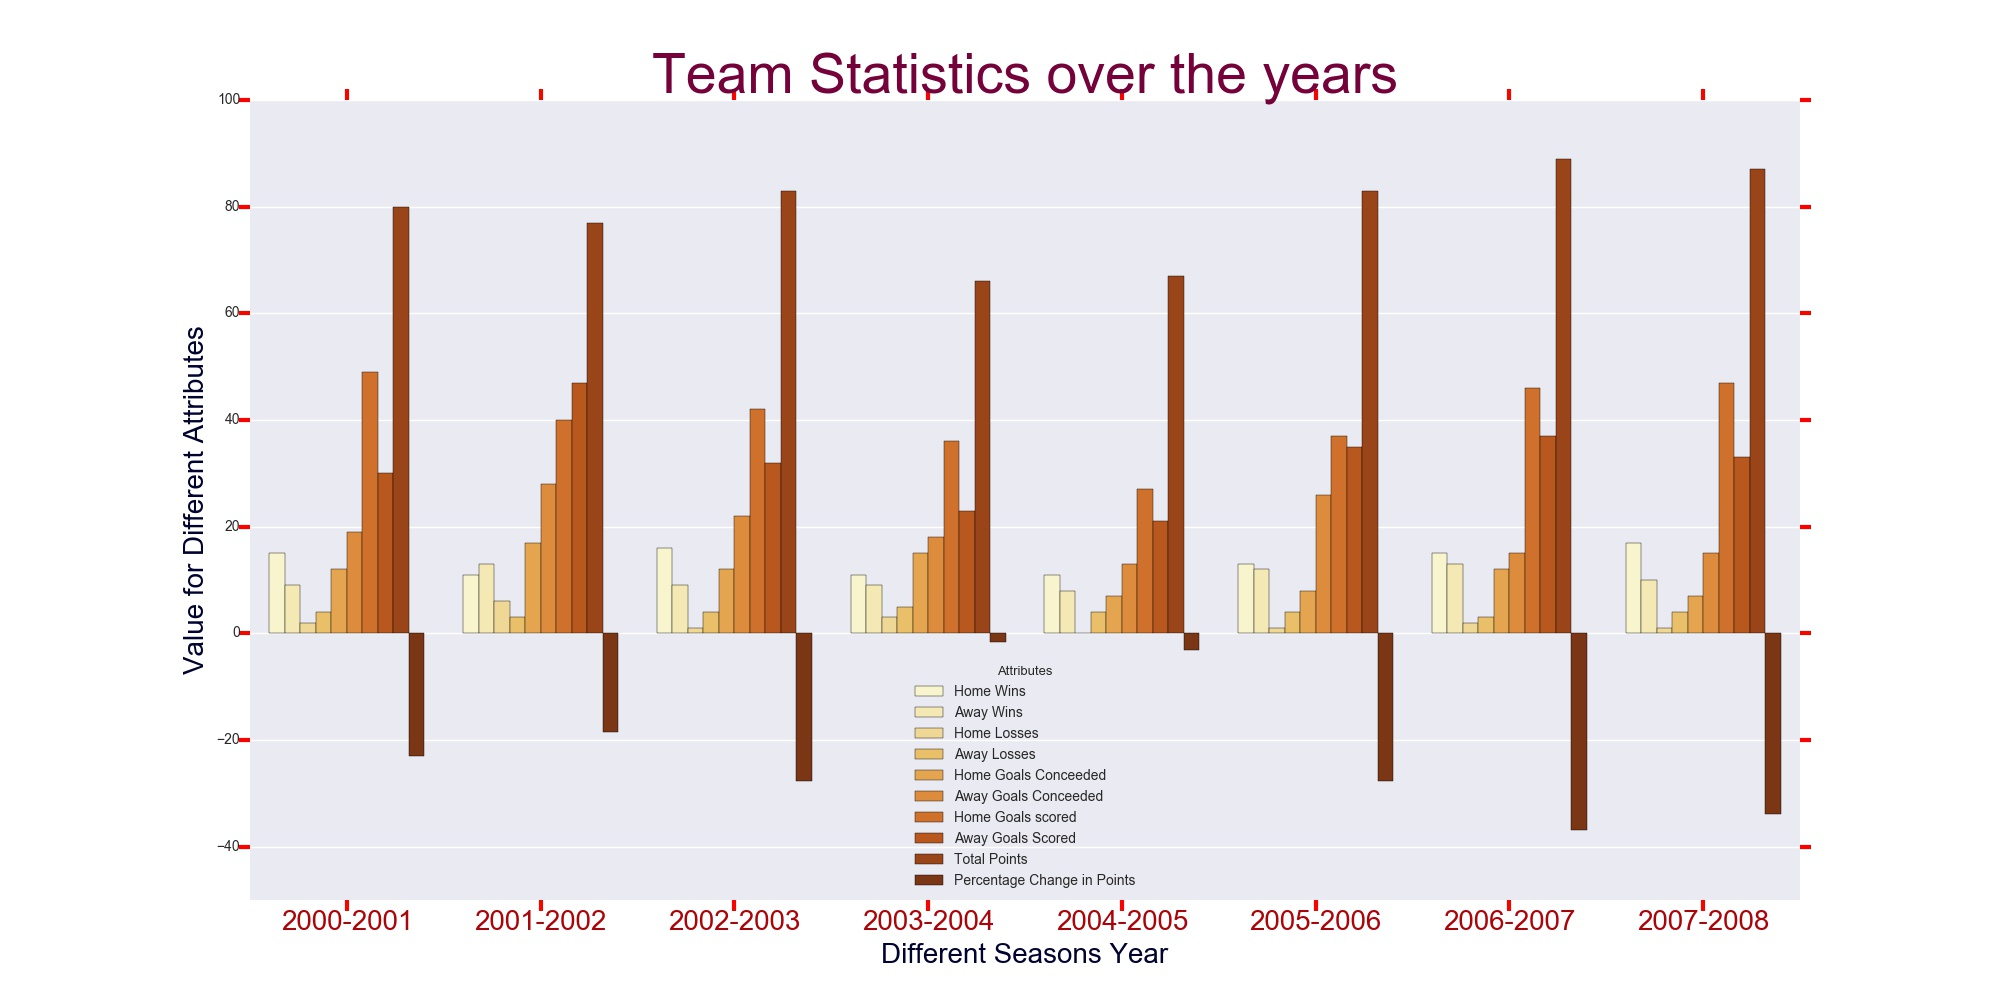
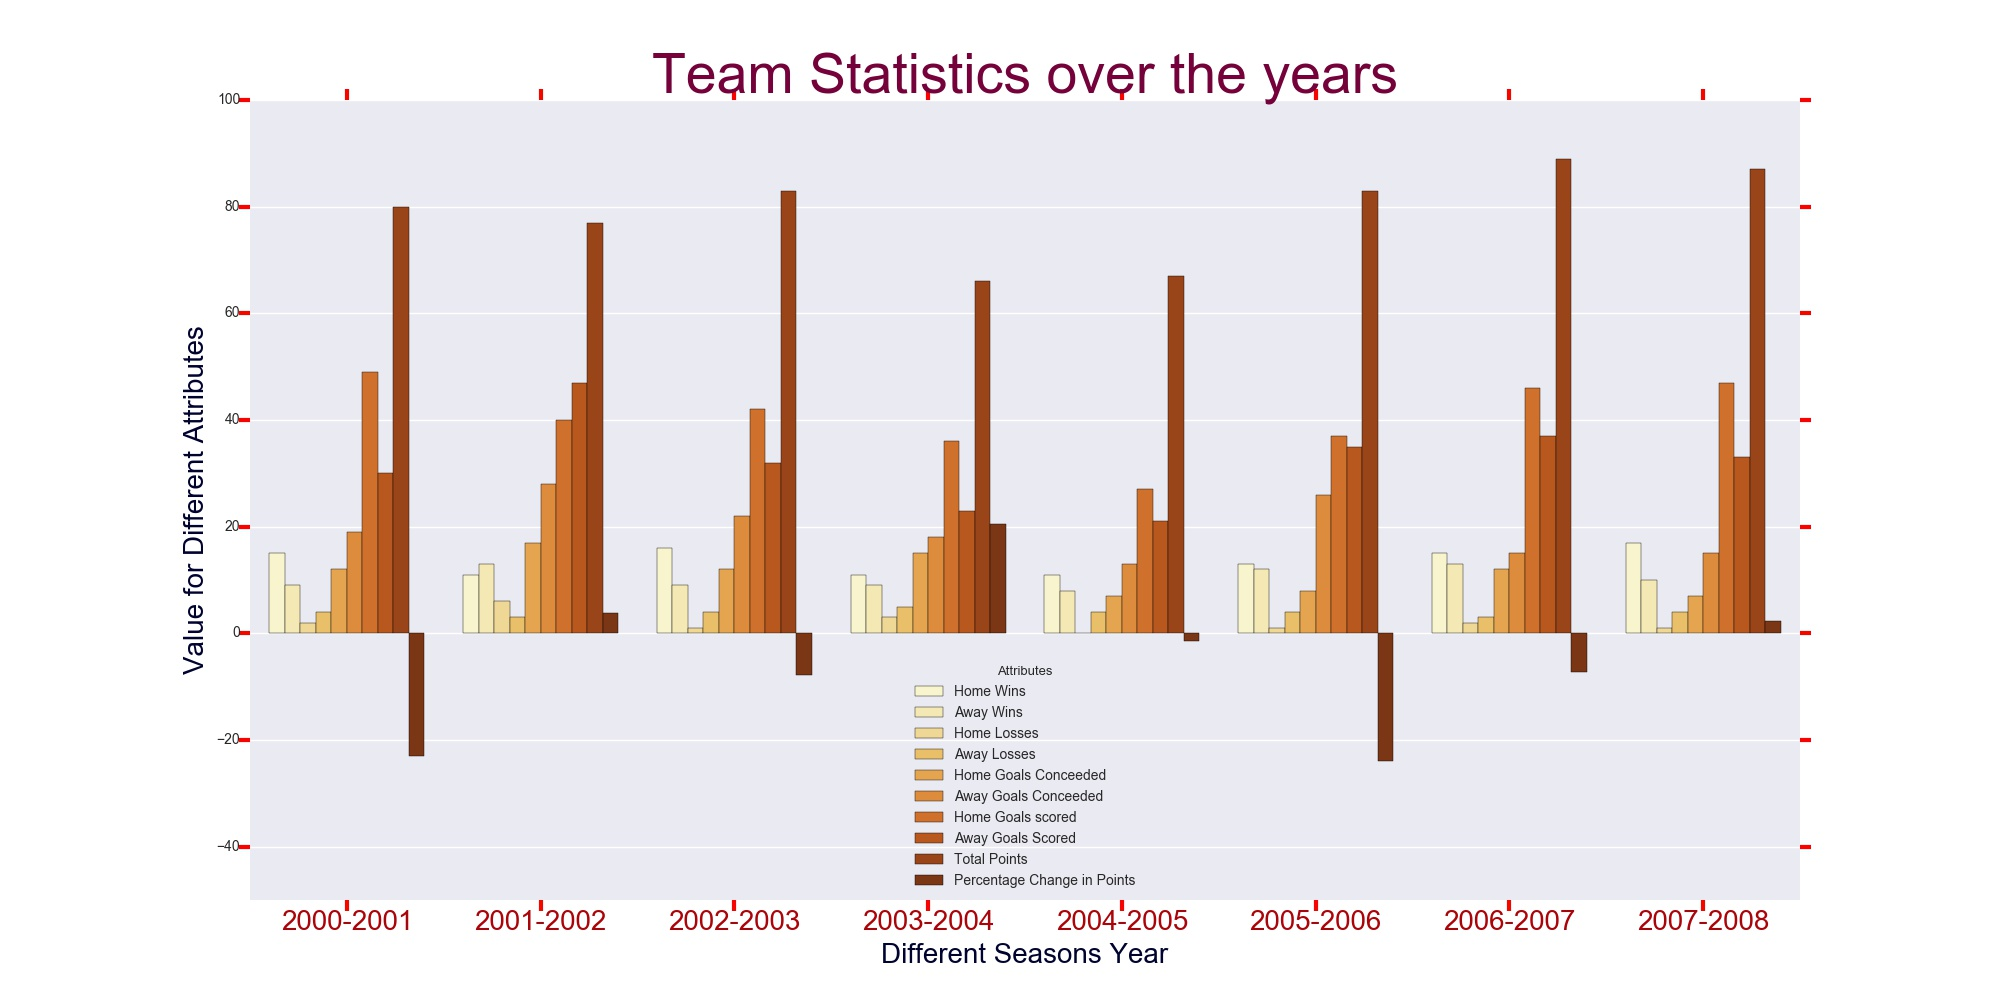
final

diff --git a/Final Exam/Analysis_scripts/Analysis1.py b/Final Exam/Analysis_scripts/Analysis1.py
@@ -60,7 +60,8 @@ for raw_file_ in glob("C:\Data Analysis\Sujay_DataAnalysis\Final_Exam\Input\Anal
 
     Total_Points = ((Home_Win_Count + Away_Wins_Count) * 3) + Home_draw_Count + Away_draw_Count
     Percentage_change_points = ((previous_Total_points - Total_Points)/previous_Total_points) * 100
-    
+    previous_Total_points = Total_Points
+	
     Attributes_single_year[0] = season_year
     Attributes_single_year[1] = Home_Win_Count
     Attributes_single_year[2] = Away_Wins_Count
@@ -108,6 +109,11 @@ plt.ylim([-50,100])
 plt.tick_params(axis='both',which='major', width=3,length=8,color='r')
 
 plt.savefig(r'C:\Data Analysis\Sujay_DataAnalysis\Final_Exam\Output\Analysis1.jpeg')
+Attributes_all_years_file = "C:\Data Analysis\Sujay_DataAnalysis\Final_Exam\Output\Analysis_1.csv"
+Attributes_all_years.to_csv(Attributes_all_years_file, sep=',', encoding='utf-8')
+
+
+
 #plt.tick_params(which='major', length=7)
 #plt.tick_params(which='minor', length=10, color='r')
 
